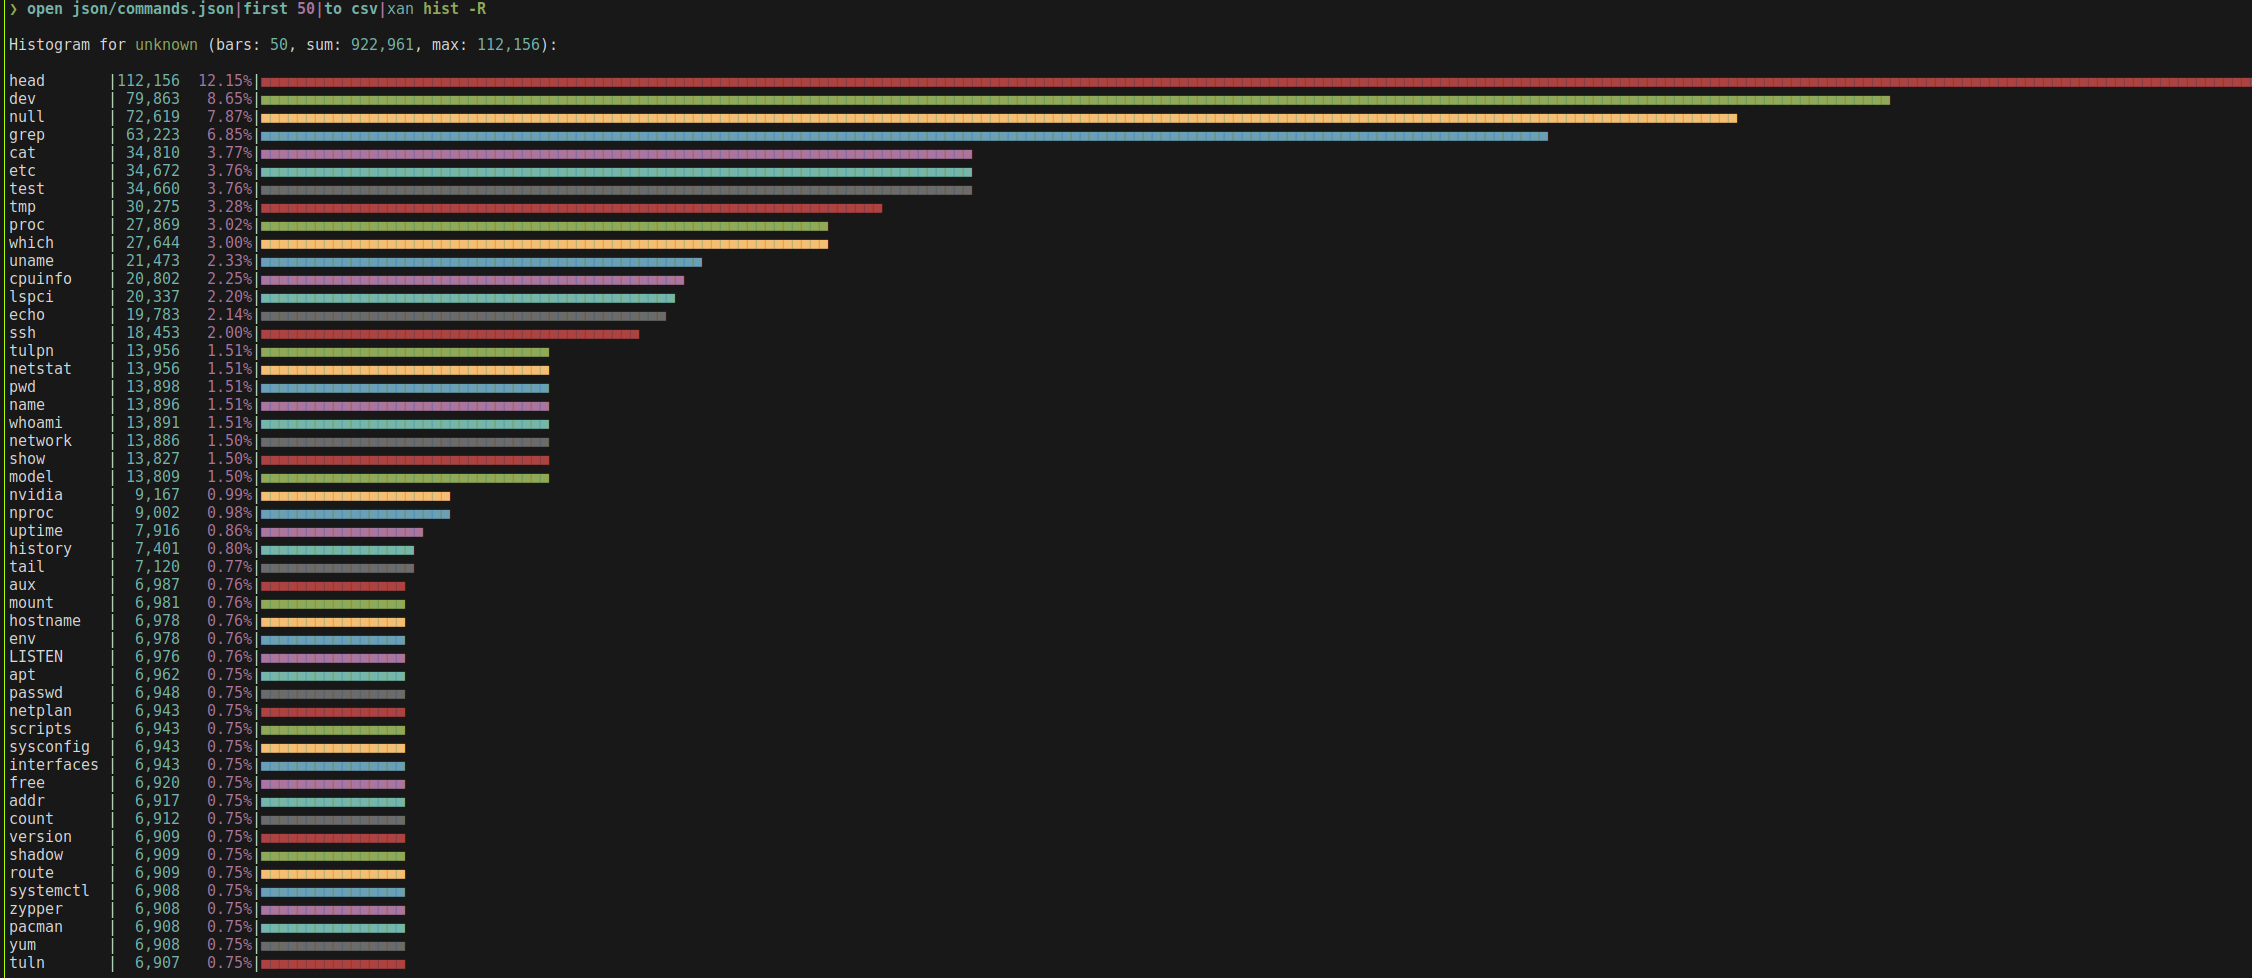
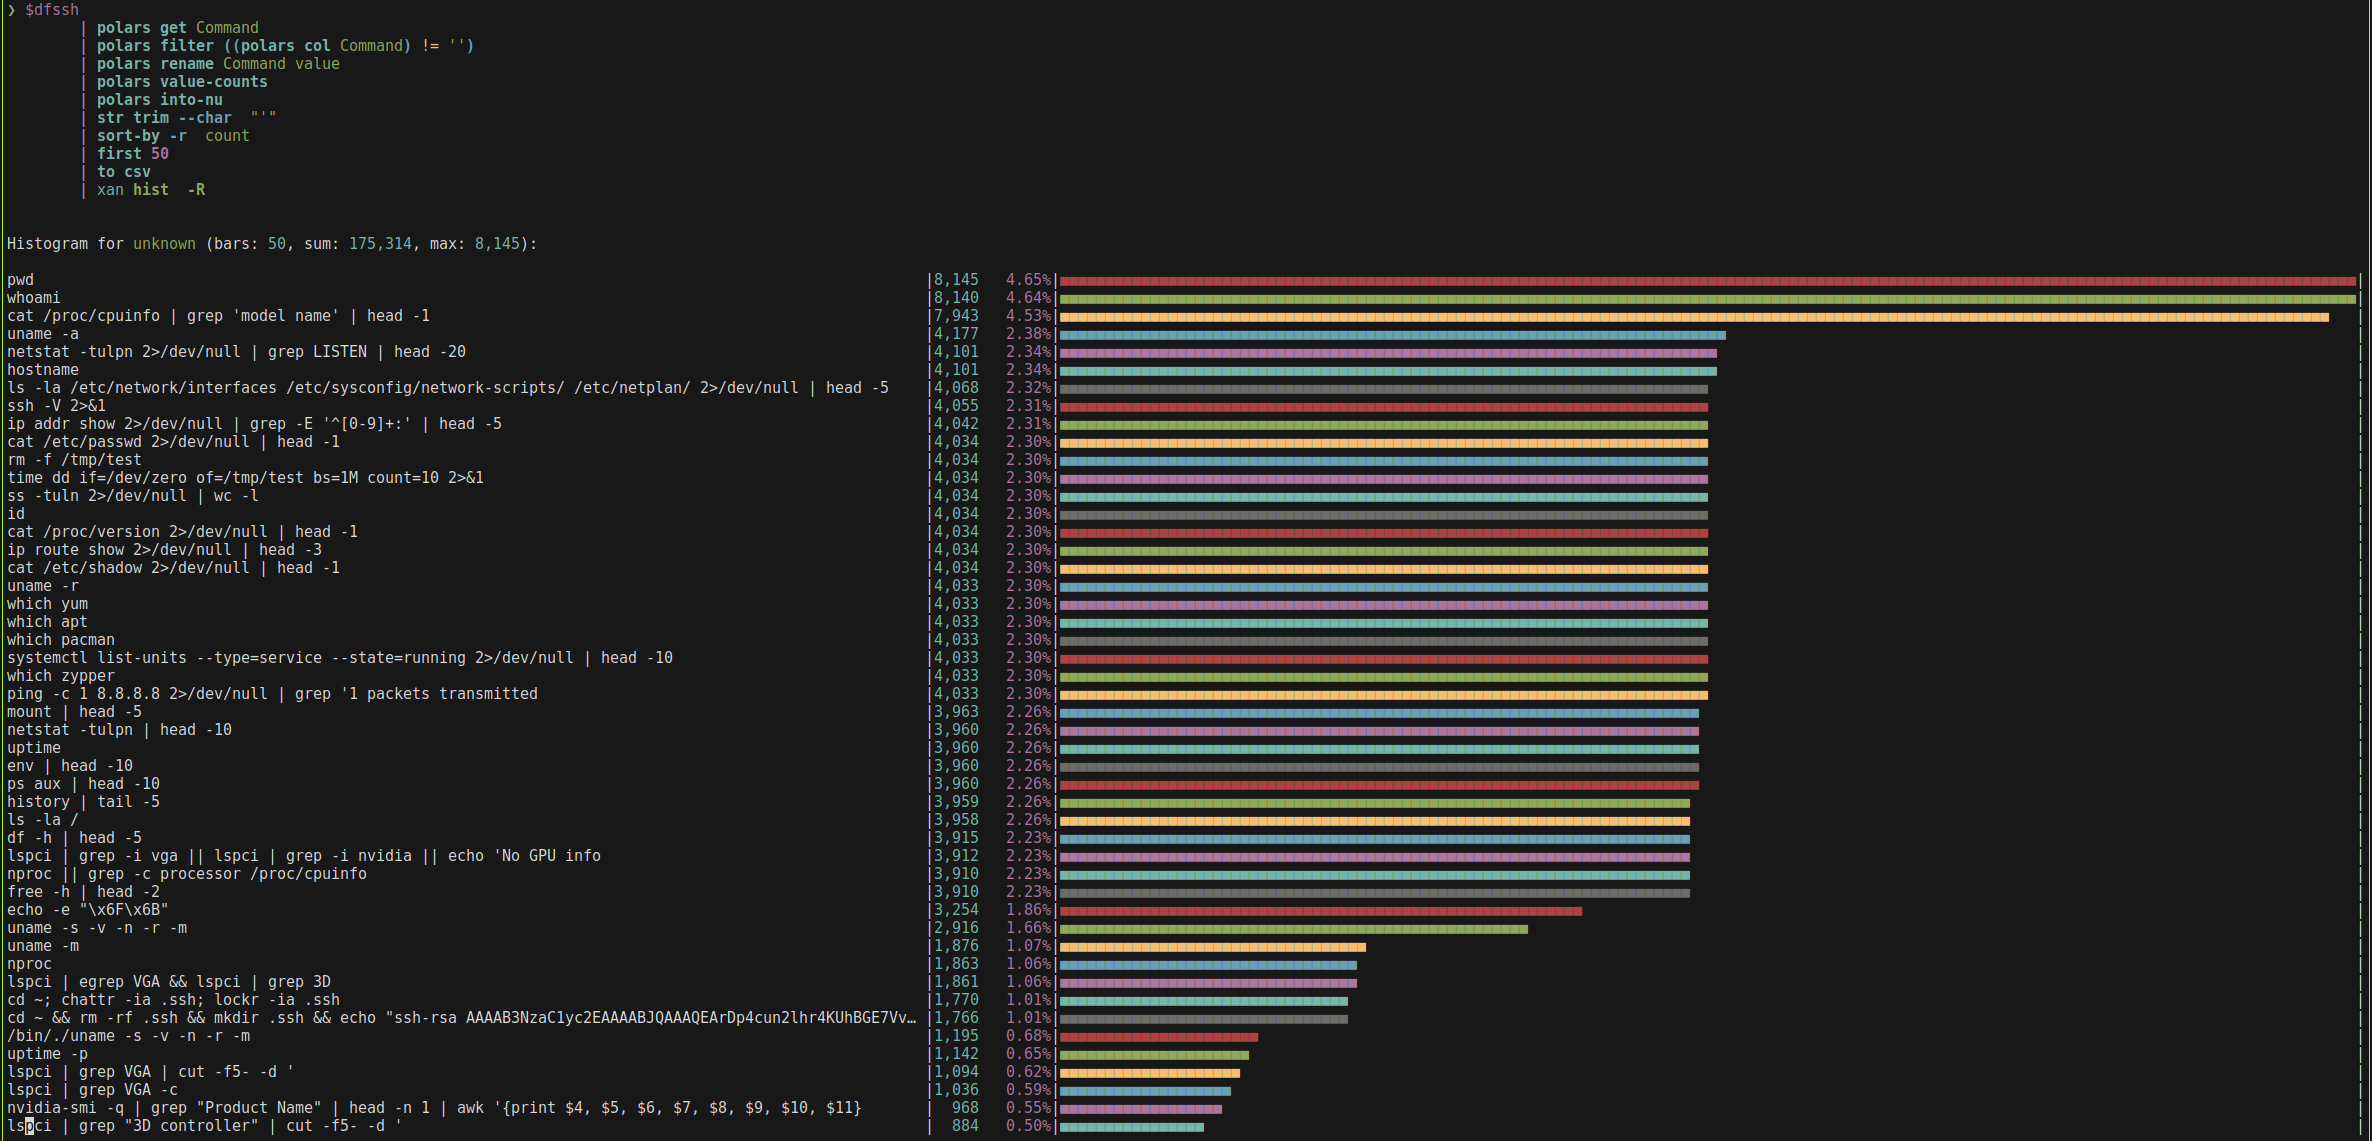
turbo on

Changed region(s): [[0.0, 0.0, 1.0, 1.0]]

diff --git a/README.md b/README.md
@@ -1,35 +1,82 @@
+
+Markdown
+
 # nubeelzebub
+
 ![graph command frequency](img/xan1.png)
-NuShell scripts to analyse beelzebug json outputs
-You must have polars plugin and xan if you want to graph
-Beelzebub json logs must be in ./log in gz format
-slow contains very slow script without polars (just for me)
 
-## extract to json (output ./json)
-source nu main-beel.nu
+**Nushell** scripts to analyze [Beelzebub](https://github.com/mariocandela/beelzebub) honeypot JSON outputs.
 
+## 🛠 Prerequisites
 
-# display ssh commands 
+To use these scripts, you must have the following installed and configured:
+
+* **Nushell** with the `polars` plugin activated.
+* **[Xan](https://github.com/medialab/xan)** for terminal-based graphing.
+* Beelzebub JSON logs stored in `./log` in `.gz` format.
+
+> [!IMPORTANT]
+> The `slow` directory contains legacy scripts without Polars support. These are deprecated and significantly slower.
+
+---
+
+## 🚀 Usage
+
+### 1. Extract to JSON
+Generate processed outputs in the `./json` directory:
+```nushell
+source main-beel.nu
+
+2. Data Exploration
+
+Use these commands to interactively browse the captured logs:
+Extrait de code
+
+# Display SSH commands
 $dfssh | polars into-nu | explore
 
-# display http commands
+# Display HTTP commands
 $dfhttp | polars into-nu | explore
 
-# display download commands
+# Display download commands
 $download_commands | polars into-nu | explore
 
-# display decoded base 64 commands
+# Display decoded Base64 commands
 $decoded | polars into-nu | explore
 
-# split commands in small chunk and graph with xan
+📊 Analytics & Visualization
+Most Used Commands
+
+Extract the top 50 SSH commands and display a frequency histogram in the terminal.
+Extrait de code
 
 $dfssh
-        | polars get Command
-        | polars select (polars col Command|polars str-split " "|polars explode)
-        | polars value-counts
-        | polars into-nu
-        | str trim --char  "'"
-        | sort-by -r  count 
-        | first 50
-        | to csv --columns [value count]
-        | xan hist  -R
+    | polars get Command
+    | polars filter ((polars col Command) != '')
+    | polars rename Command value
+    | polars value-counts
+    | polars into-nu
+    | str trim --char "'"
+    | sort-by -r count
+    | first 50
+    | to csv
+    | xan hist -R
+
+Keyword Frequency Analysis
+
+Split commands into individual words and filter by length to identify common malicious binaries or flags.
+Extrait de code
+
+$dfssh
+    | polars get Command
+    | polars select (polars col Command | polars str-split " " | polars explode)
+    | polars rename Command value
+    | polars filter ((polars col value) != '')
+    | polars filter ((polars col value | polars str-lengths) > 3)
+    | polars value-counts
+    | polars into-nu
+    | str trim --char "'"
+    | sort-by -r count
+    | first 50
+    | to csv
+    | xan hist -R
